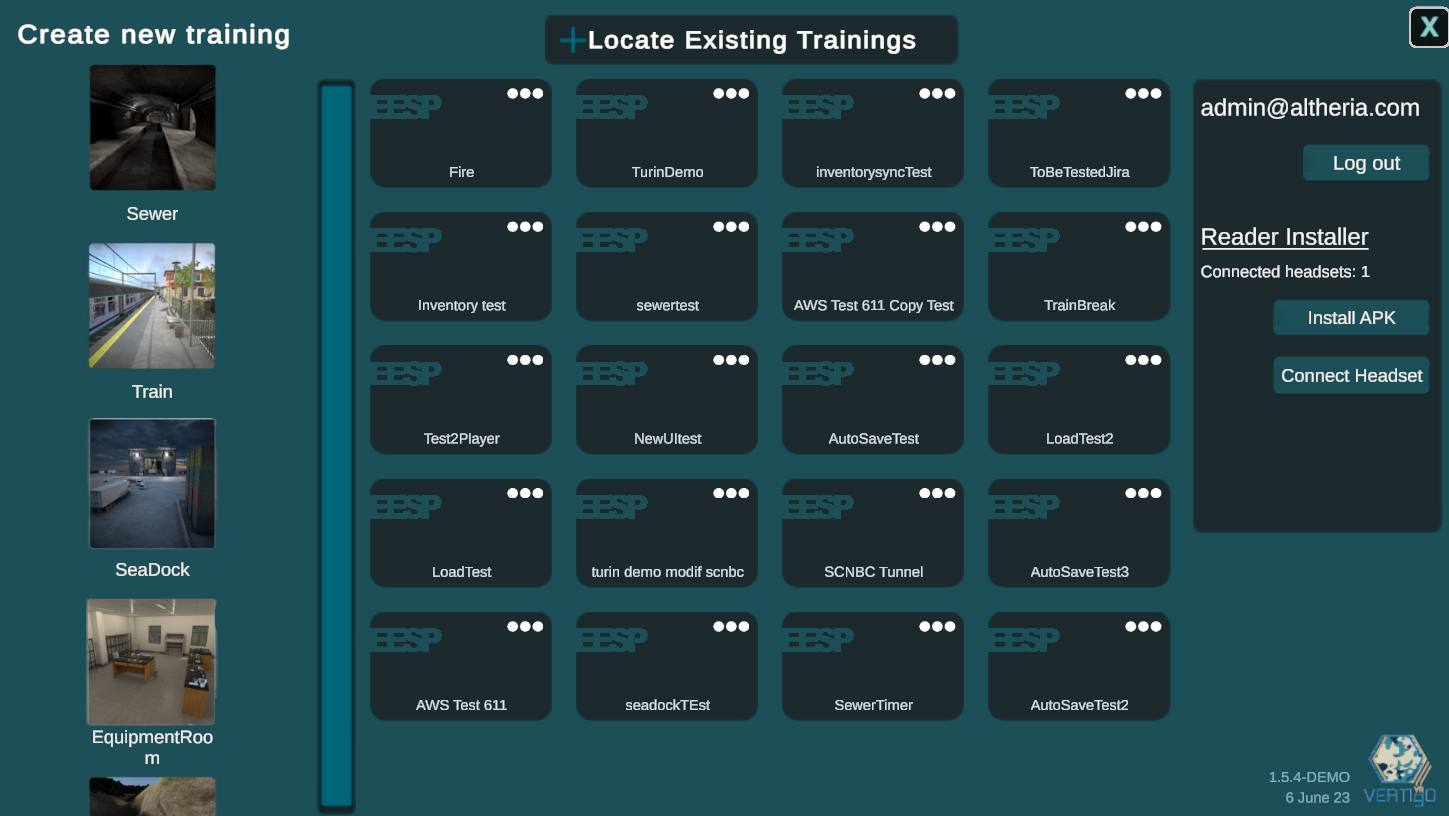
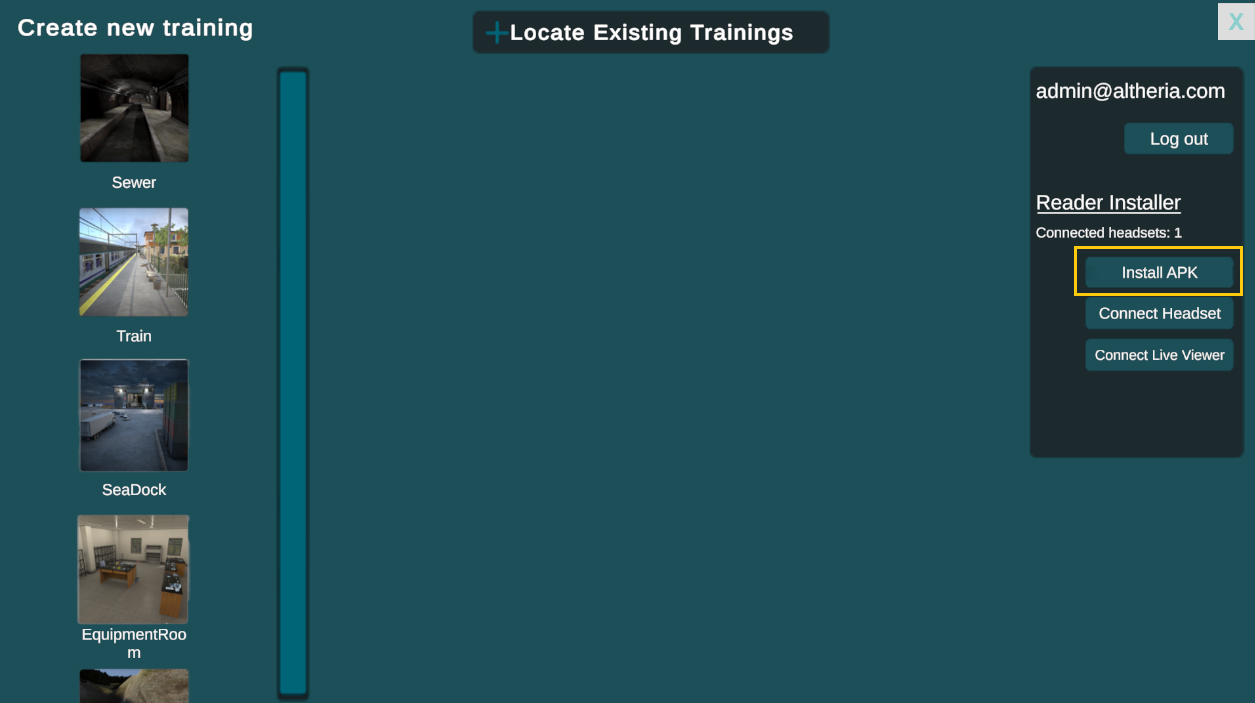
docs: Updated installation and cleanup.

diff --git a/docusaurus.config.js b/docusaurus.config.js
@@ -48,14 +48,9 @@ const config = {
                 }, items: [{
                     type: 'doc', docId: 'general/Online-Installation', position: 'left', label: 'General',
                 },{
-                    type: 'doc', docId: 'eesp-editor/General', position: 'left', label: 'EESP editor',
-                }, {
-                    type: 'doc', docId: 'trainer-web-app/General', position: 'left', label: 'Trainer web app',
-                }, {
-                    type: 'doc', docId: 'eesp-trainer-view/General', position: 'left', label: 'EESP trainer view',
-                }, {
-                    type: 'doc', docId: 'eesp-headset/General', position: 'left', label: 'EESP headset',
-                }],
+                    type: 'doc', docId: 'eesp-editor/General', position: 'left', label: 'EESP Editor',
+                }
+            ],
             }, footer: {
                 style: 'dark', links: [{
                     title: 'VERTIgO Project', items: [{

diff --git a/sidebars.js b/sidebars.js
@@ -15,10 +15,8 @@
 const sidebars = {
   // By default, Docusaurus generates a sidebar from the docs folder structure
   GeneralSidebar: [{type: 'autogenerated', dirName: 'general'}],
-  webAppSidebar: [{type: 'autogenerated', dirName: 'trainer-web-app'}],
-  trainerViewSidebar: [{type: 'autogenerated', dirName: 'eesp-trainer-view'}],
   eespEditorSidebar: [{type: 'autogenerated', dirName: 'eesp-editor'}],
-  eespHeadsetSidebar: [{type: 'autogenerated', dirName: 'eesp-headset'}],
+
 
   // But you can create a sidebar manually
   /*

diff --git a/docs/general/Online-Installation.md b/docs/general/Online-Installation.md
@@ -22,20 +22,24 @@ The editor can the headset in tethered mode (usb cable) can already be used with
 # Step 3: Install the EESP Reader on the headsets
 Connect the headsets to the computer using a USB cable. On the right panel of the editor it should say a headset is connected. If this is not the case, you might need to confirm a popup inside the VR headset.
 ![install-apk.png](/img/install-apk.png)
-Press the "Install APK" button and select the .apk file that you downloaded. The installation process will begin and should not take longer than a couple minutes.
-The "Connect Headset" button is used to set the EESP Console that the headset will use to the EESP Console the editor is currently using. This is only required if you want to switch the headset from the Online EESP to an Offline EESP console or the reverse.
+Press the **Install APK** button and select the .apk file that you downloaded. The installation process will begin and should not take longer than a couple minutes.
+The **Connect Headset** button is used to set the EESP Console that the headset will use to the EESP Console the editor is currently using. This is only required if you want to switch the headset from the Online EESP to an Offline EESP console or the reverse.
 
 # Step 4: Add Headset To Console
 Navigate to the headsets page on the [EESP Console](https://vertigo.altheria.com) and press the "Add Headset" button. This will open a popup window.
 
 ![console-add-headset.png](/img/console-add-headset.png)
 
-Launch the EESP Reader in the VR headset.
+Launch the EESP Reader Application in the VR headset.
 
 ![console-add-headset-popup.png](/img/console-add-headset-popup.png)
 
-Press the + button in the Console to add the headset. You can rename the headset by navigating back to the Headsets and pressing the triple dots button on the headset.
+Press the + button in the Console to add the headset. You can rename the headset by navigating back to the Headsets page and pressing the triple dots button on the headset.
 After adding the headset for the first time you need to restart the Reader app before you can start using it.
 
 # Step 5: Setup Live Viewer
-TODO
+Press the **Connect Live Viewer** button.
+![connect-live-viewe.png](/img/connect-live-viewer.png)
+A file with the name **register_live_viewer.reg** will be created in the folder where you installed the EESP Editor. Open the **register_live_viewer.reg** and accept the popup window.
+![run-reg-file.png](/img/run-reg-file.png)
+The installation is now complete.

diff --git a/docs/eesp-editor/EditorBasics/Connect-headset-for-Editor-testing.md b/docs/eesp-editor/EditorBasics/Connect-headset-for-Editor-testing.md
@@ -2,50 +2,3 @@
 sidebar_position: 2
 title: Connect headset for Editor testing
 ---
-
-
-
-Connect headset for Editor testing 
-
- 
-Apart from the documentation, a video is provided to help you set up your headset to be used in the editor. 
- 
-
-## 1.Hardware Check 
-
- 
-
-Make sure the editor is not launched on the computer. 
-Turn on the headset and plug it to the computer using the provided cable. 
- 
-Inside the headset, ensure that the boundary is set up. 
-
- 
-
-## 2.Oculus and headset setup 
-
- 
-Launch the oculus app on the computer. 
- 
-
- 
-Inside the headset, press allows connection to the computer.  
-Then activate the cablelink mode. 
-If you find yourself in a white blank space, that means it worked. 
-
-  
-
-## 3.Steam VR 
-
- 
-
-NB : SteamVR should launch automatically when you start the EESP Editor. if not, you may have to go in SteamVR>Settings>OpenXR set current openXR Runtime to SteamVR 
-
- 
-Launch steam VR from your computer. 
-If everything is running smoothly, inside the headset, the environment should change to a cozy house. 
- 
-From steam VR, you are able to modify settings such as resolution, controls,... ( We do not recommend changing them) 
- 
-
- 

diff --git a/docs/general/Offline-Installation.md b/docs/general/Offline-Installation.md
@@ -1,0 +1,18 @@
+---
+sidebar_position: 2
+title: Offline Installation
+---
+
+This page will assist you in setting up the EESP software on your own infrastructure disconnected from the internet. This is the recommended method for organizations with stricter security requirements. 
+This method is more complex and will require some technical knowledge about networking.
+This page will provide an example of how to set up the software, but you are free to expand on this to fit the needs of your organization better.
+
+# Requirements:
+1. **A computer:** This computer will act as a server for the EESP Console and the multiplayer sessions.
+2. **A WI-FI network:** This network does not need to be connected to the internet. The computer and headsets need to be connected to this network.
+3. **A static IP address**: The IP address of the computer should remain the same. If the IP address changes, you will need to repeat some of the installation process to switch to the new IP address.
+
+The online installation is by far the easiest and is recommended for most users.
+
+# Example Setup
+This section is a work in progress and will be available soon.
